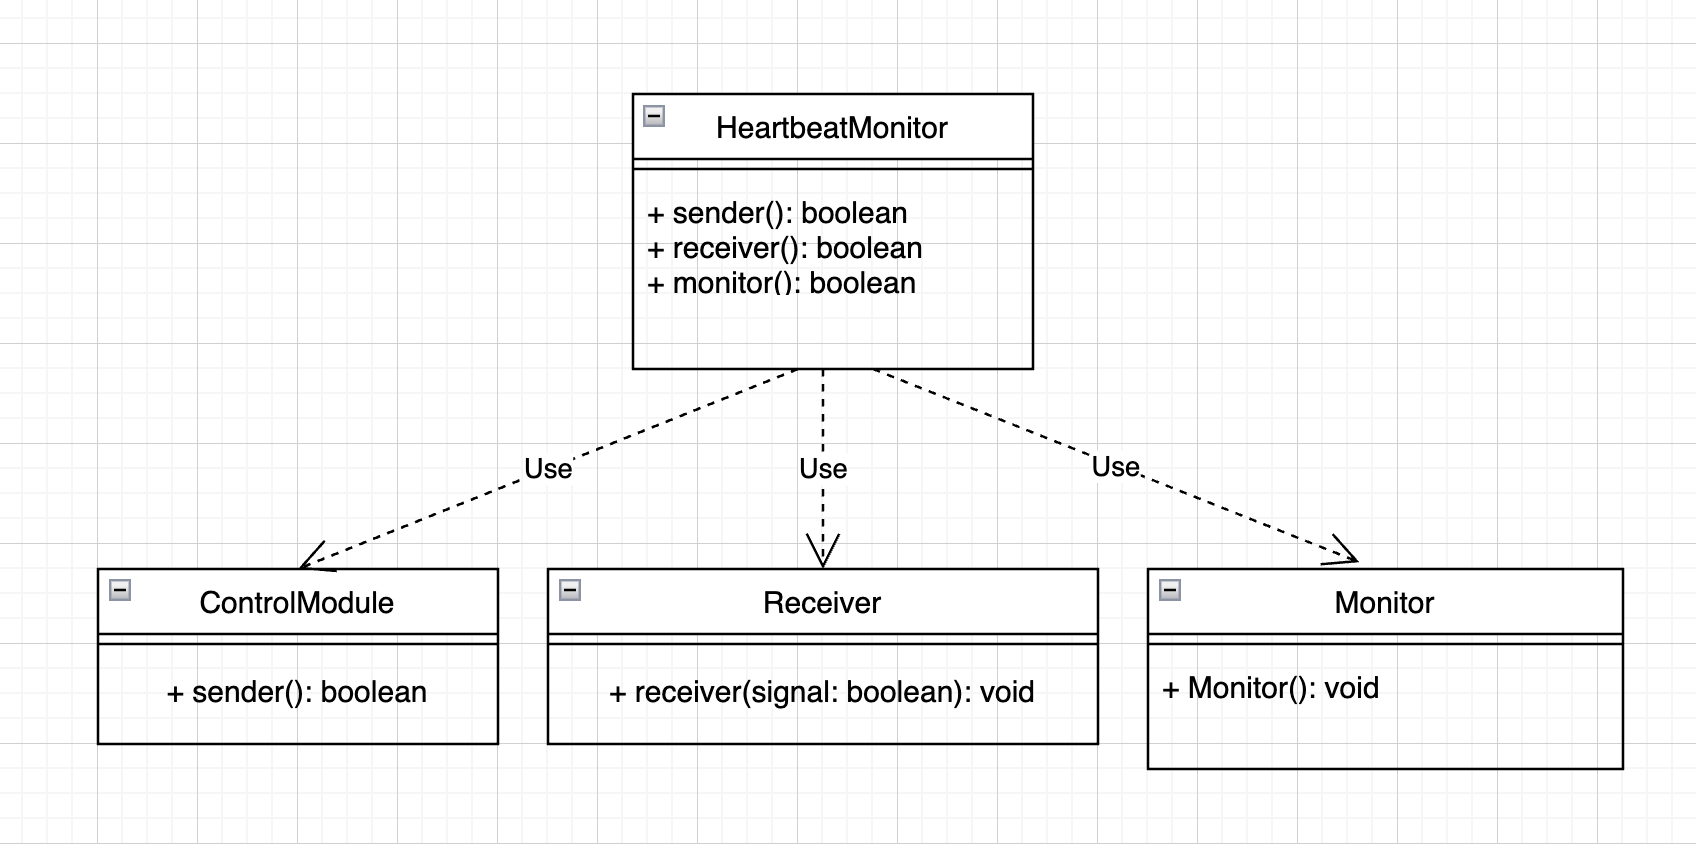
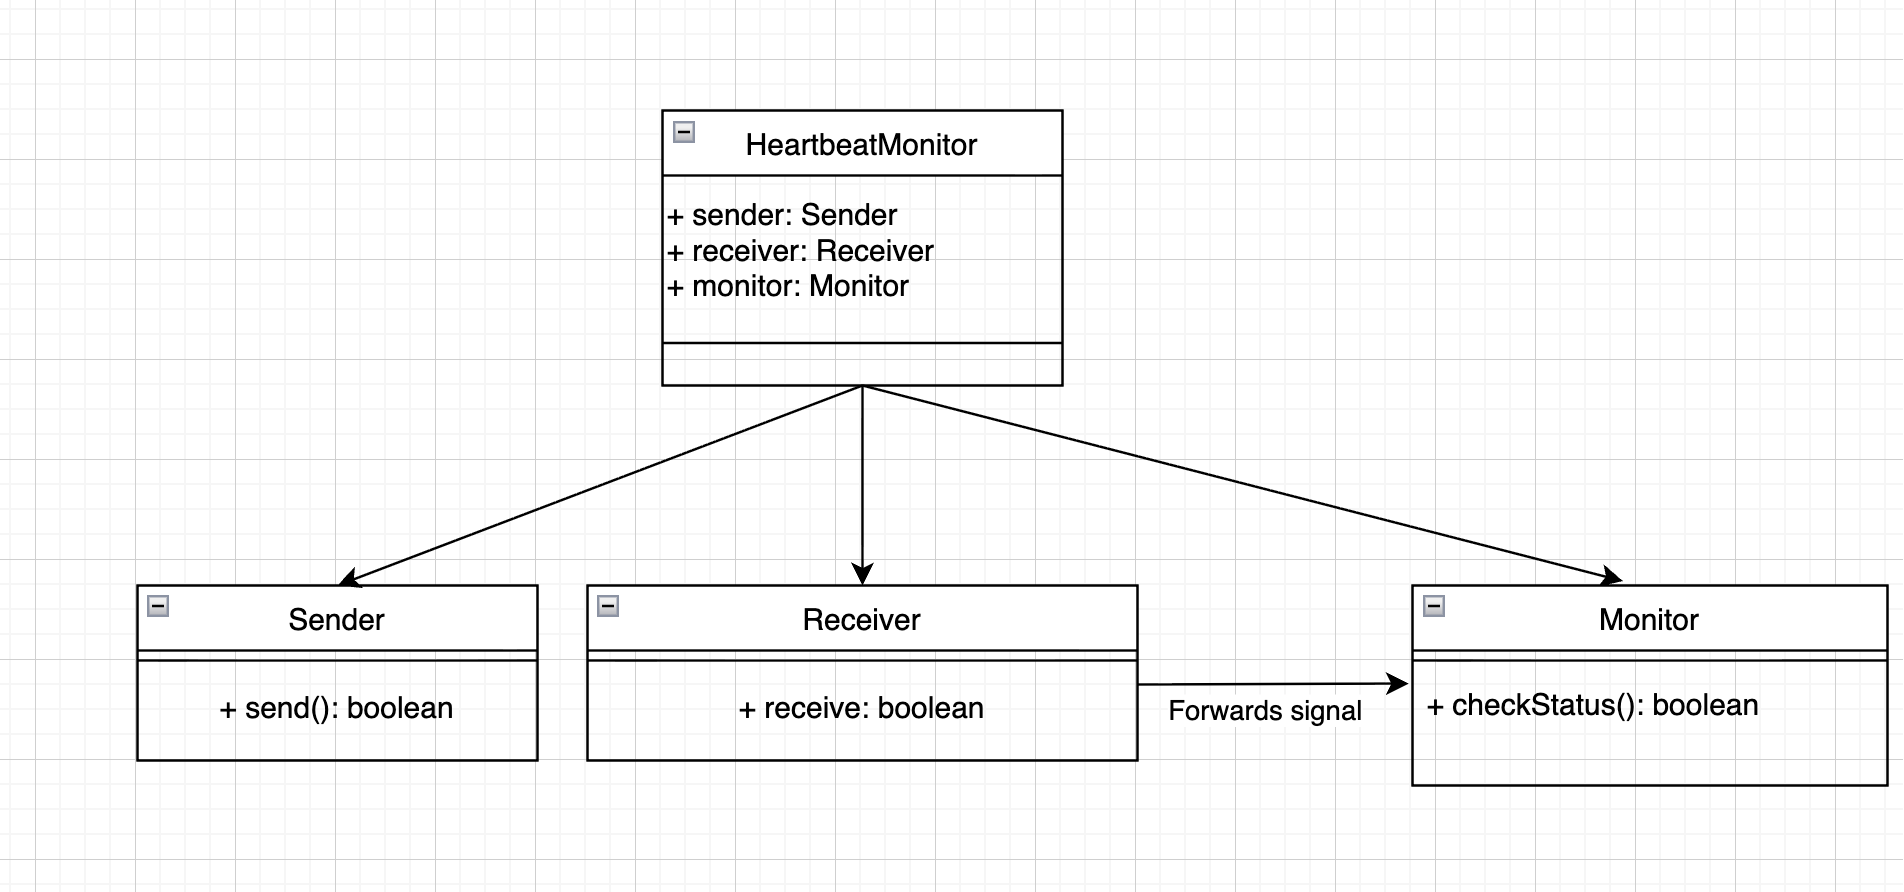
Updated the class and sequence diagram and the readme

diff --git a/README.md b/README.md
@@ -31,4 +31,38 @@ java HeartbeatMonitor
 
 ## Class diagram
 
+The class diagram models the structure of the heartbeat fault-detection system.
+
+* HeartbeatMonitor is the orchestrator. It holds references to Sender, Receiver, and Monitor, and manages the execution loop.
+
+* Sender is responsible for generating a heartbeat using the send() method. It may sometimes fail, simulating a fault in the control module.
+
+* Receiver accepts the signal through the receive() method and returns whether the heartbeat was successfully delivered.
+
+* Monitor maintains a counter of consecutive missed heartbeats and checks the overall health of the system through the checkStatus() method. If the number of missed beats exceeds the threshold, it declares a critical fault.
+
+![Class Diagram](Heartbeat_class.png)
+
 ## Sequence diagram
+
+The sequence diagram illustrates the runtime behavior of the heartbeat tactic across multiple iterations:
+
+1. The System triggers the runLoop() method in HeartbeatMonitor.
+
+2. In each cycle:
+
+* HeartbeatMonitor calls Sender.send(), which produces a boolean signal (true = heartbeat sent, false = missed).
+
+* The signal is passed to Receiver.receive(), which returns whether the signal was delivered.
+
+* HeartbeatMonitor then calls Monitor.checkStatus(). The monitor updates its internal counter:
+
+    - If the heartbeat is delivered → the counter is reset.
+
+    - If the heartbeat is missed → the counter is incremented.
+
+3. When the counter of missed heartbeats reaches 3 (or the configured threshold), Monitor declares a Critical Fault, and the system stops or raises an alert.
+
+This sequence demonstrates how the heartbeat tactic detects failures by continuously monitoring a control process and reacting quickly if it becomes unresponsive.
+
+![Sequence Diagram](Heartbeat_Sequence.png)
